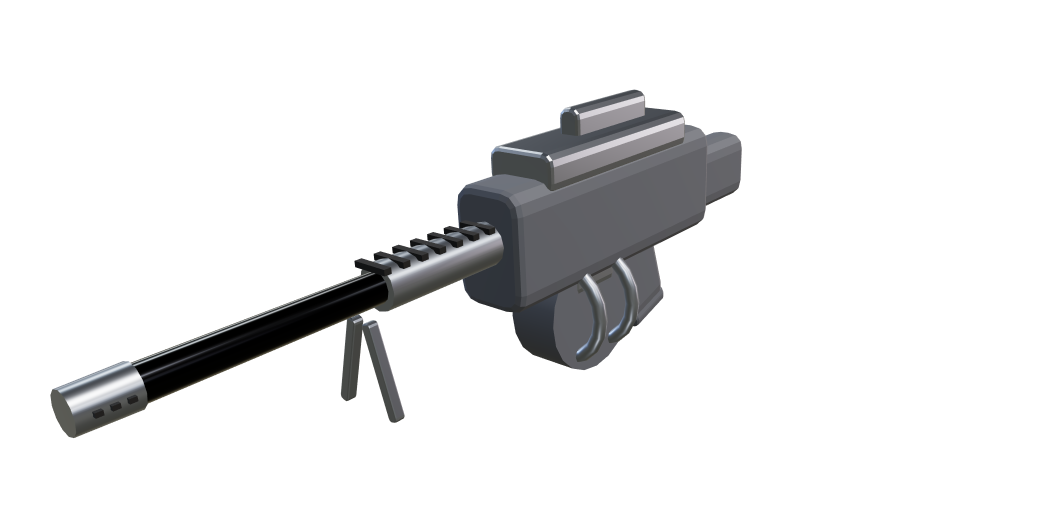
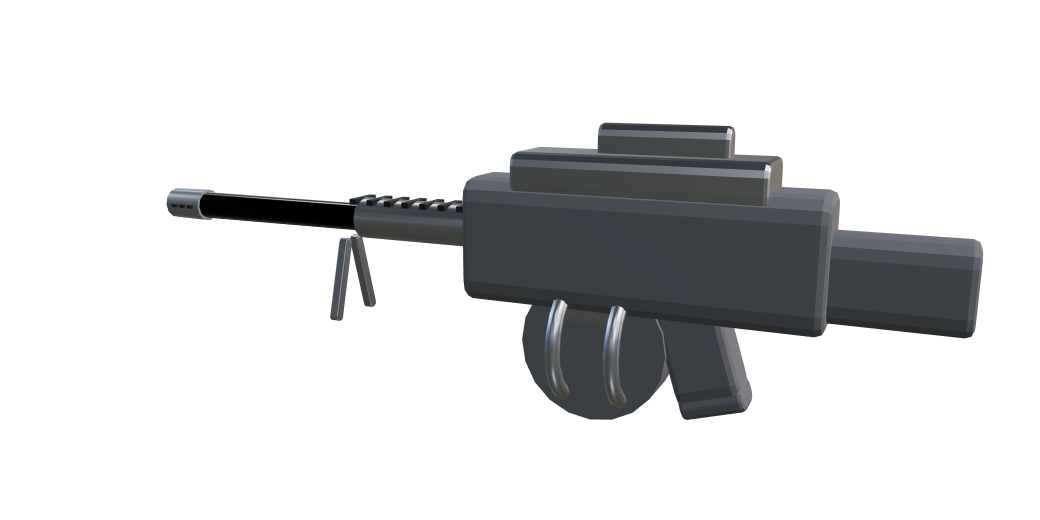
fix(marketplace): new gun art now faces the same way as the old
The seasonal weapons were baked at an angle I picked by eye, so they sat next to the
original catalogue art facing differently — noticeable the moment they share a grid.

They are now posed at EXACTLY the angle dev/bake-items uses: holder at
(0.08, PI/2 - 0.42, 0), with the muzzle flipped to -Z first. The GLB path does that
flip as part of aligning an arbitrary model's longest axis; these are authored
barrel-along-+Z, so they need the same PI yaw applied explicitly before the shared
hero angle, or they come out mirrored.

All five re-baked: barrel left, stock right, three-quarter from front-left, matching
the SMG / Assault Rifle / Marksman / Prototype exactly. Still RGBA.

Changed region(s): [[0.0308, 0.1538, 0.9538, 0.8615]]

diff --git a/apps/web/src/app/dev/bake-gun/page.tsx b/apps/web/src/app/dev/bake-gun/page.tsx
@@ -26,8 +26,18 @@ function Gun({ id }: { id: ProceduralGunId }) {
     g.scale.setScalar(1 / LEN[id]); // normalise so every gun frames identically
     return g;
   }, [id]);
-  // The three-quarter hero angle the existing catalogue art uses.
-  return <group rotation={[0.26, -0.72, 0.06]}><primitive object={model} /></group>;
+  // EXACTLY the pose the existing catalogue art is baked at (see dev/bake-items):
+  // the GLB path flips the muzzle to -Z and then poses the holder at
+  // (0.08, PI/2 - 0.42, 0). These models are authored barrel-along-+Z, so the inner
+  // PI yaw puts them in the same convention before the identical hero angle is
+  // applied — otherwise the new guns face the opposite way to every old one.
+  return (
+    <group rotation={[0.08, Math.PI / 2 - 0.42, 0]}>
+      <group rotation={[0, Math.PI, 0]}>
+        <primitive object={model} />
+      </group>
+    </group>
+  );
 }
 
 export default function BakeGun() {
